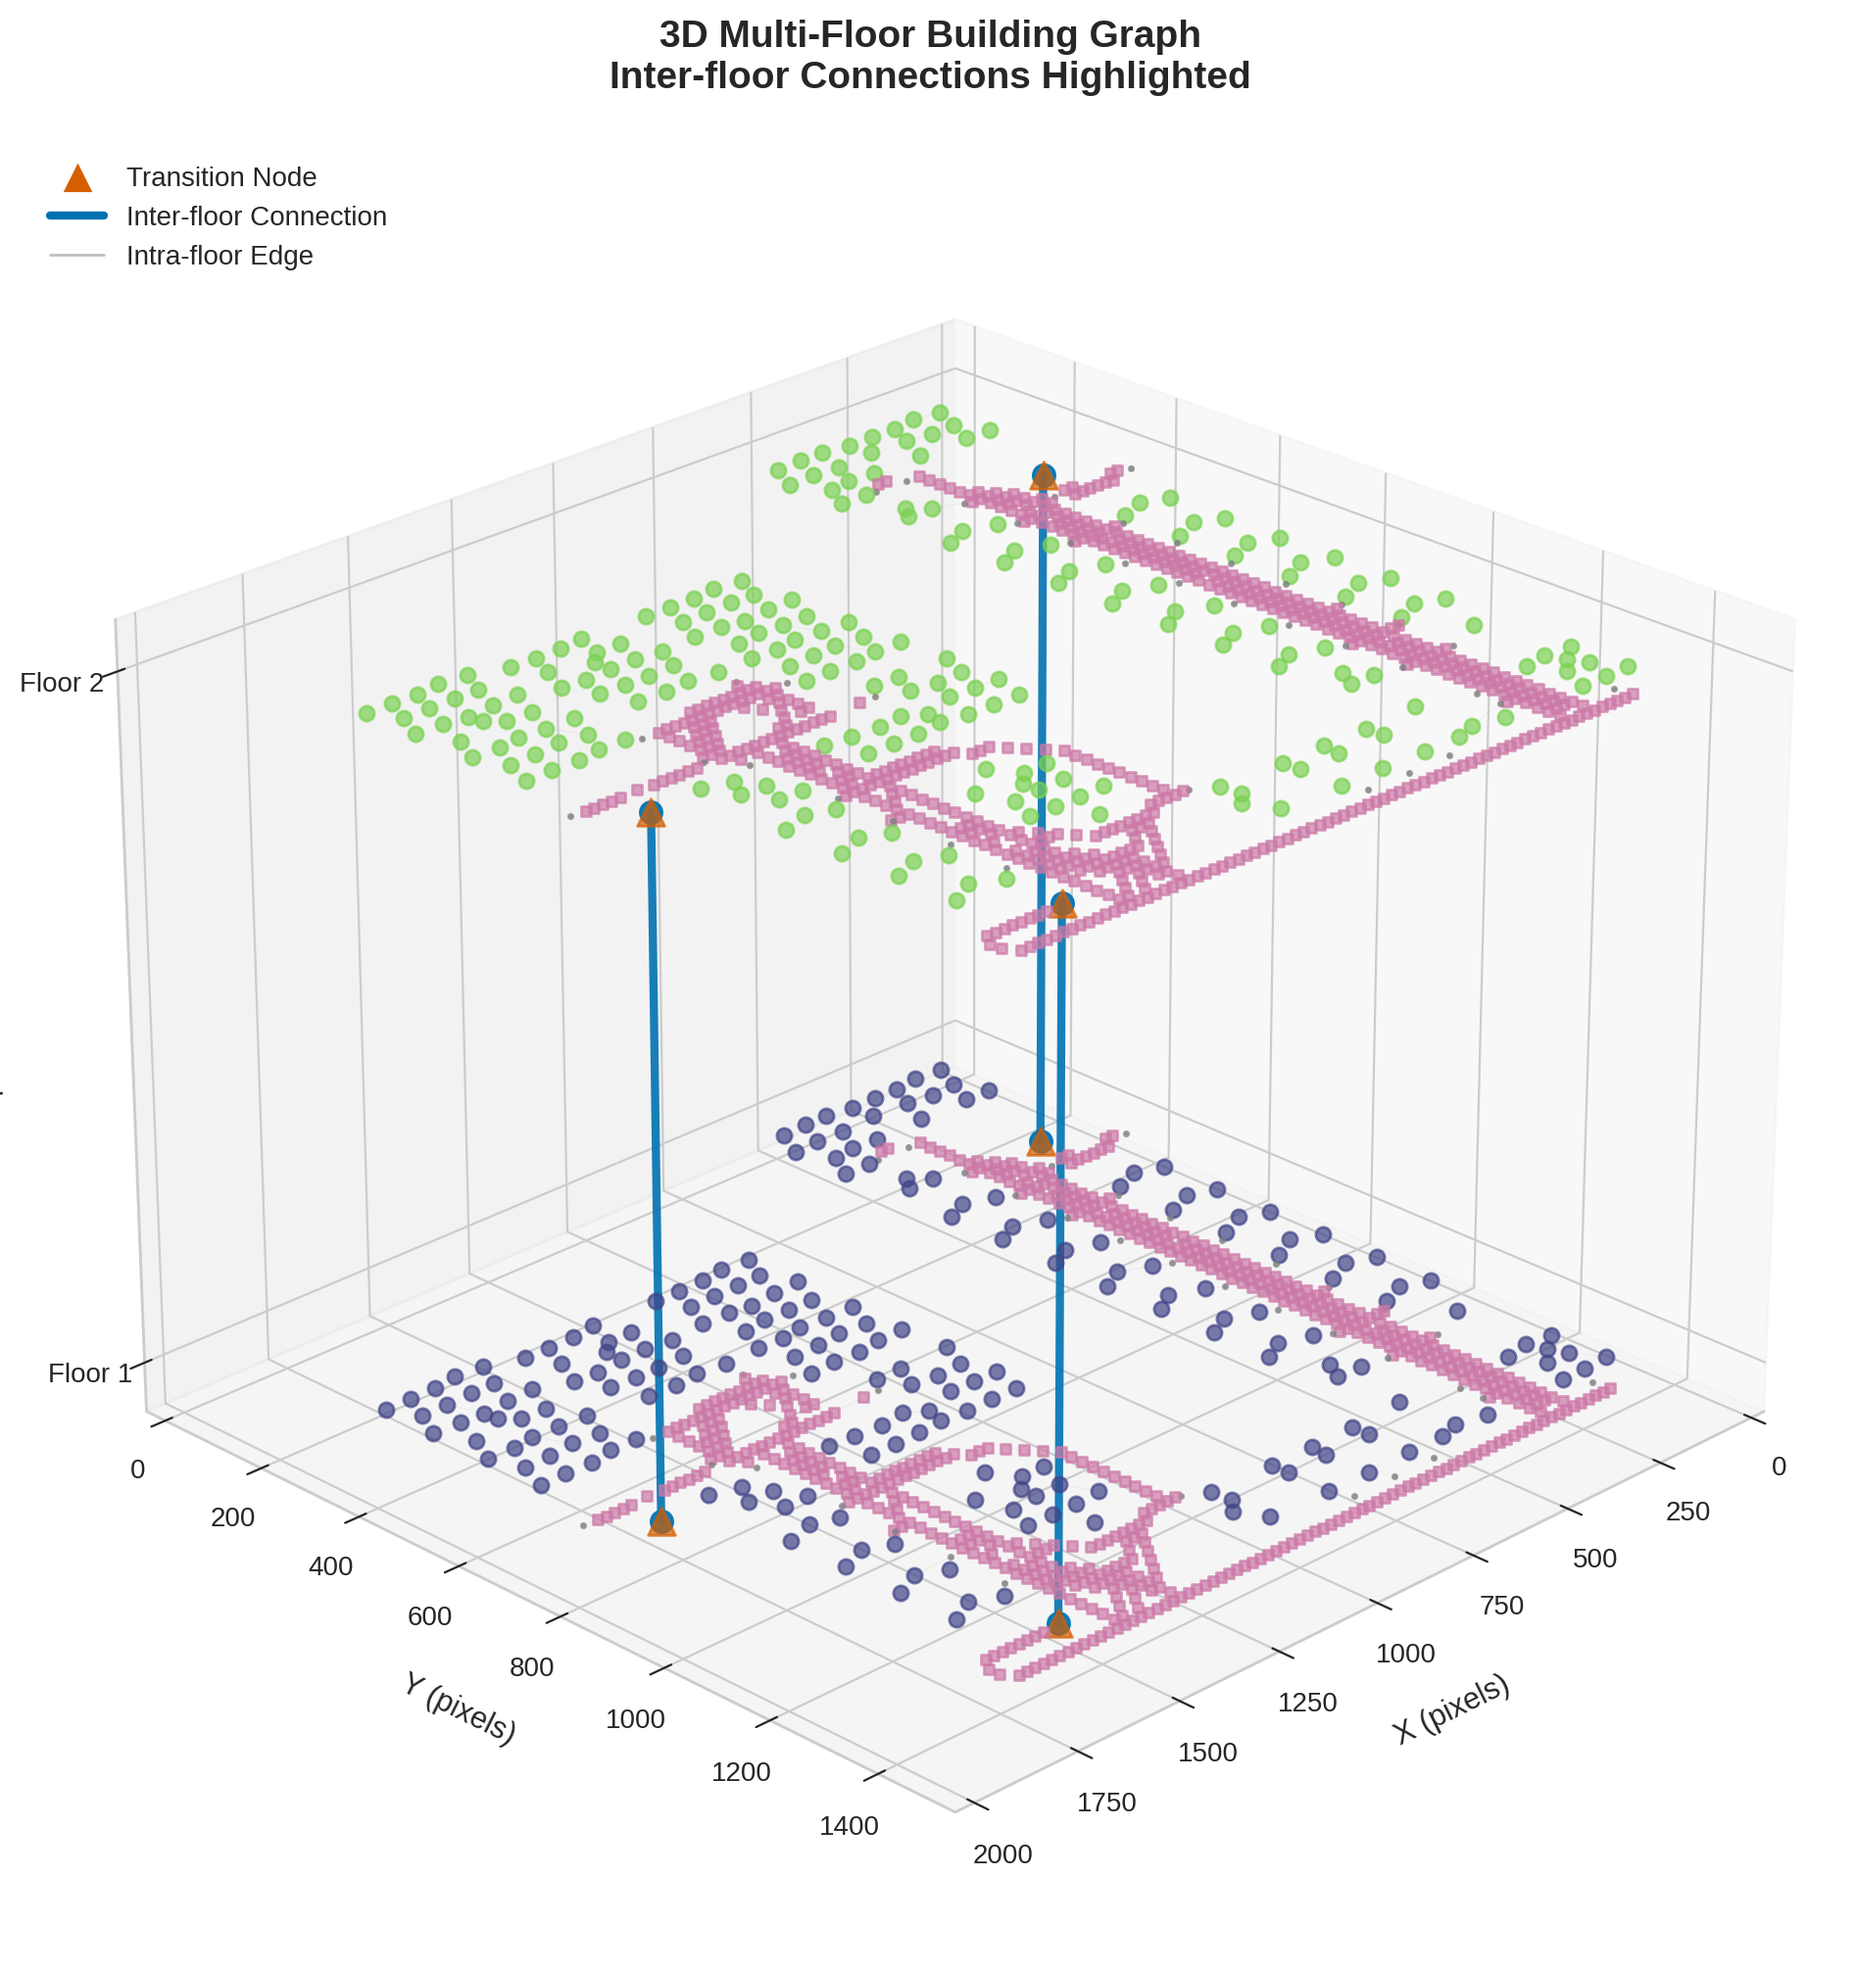
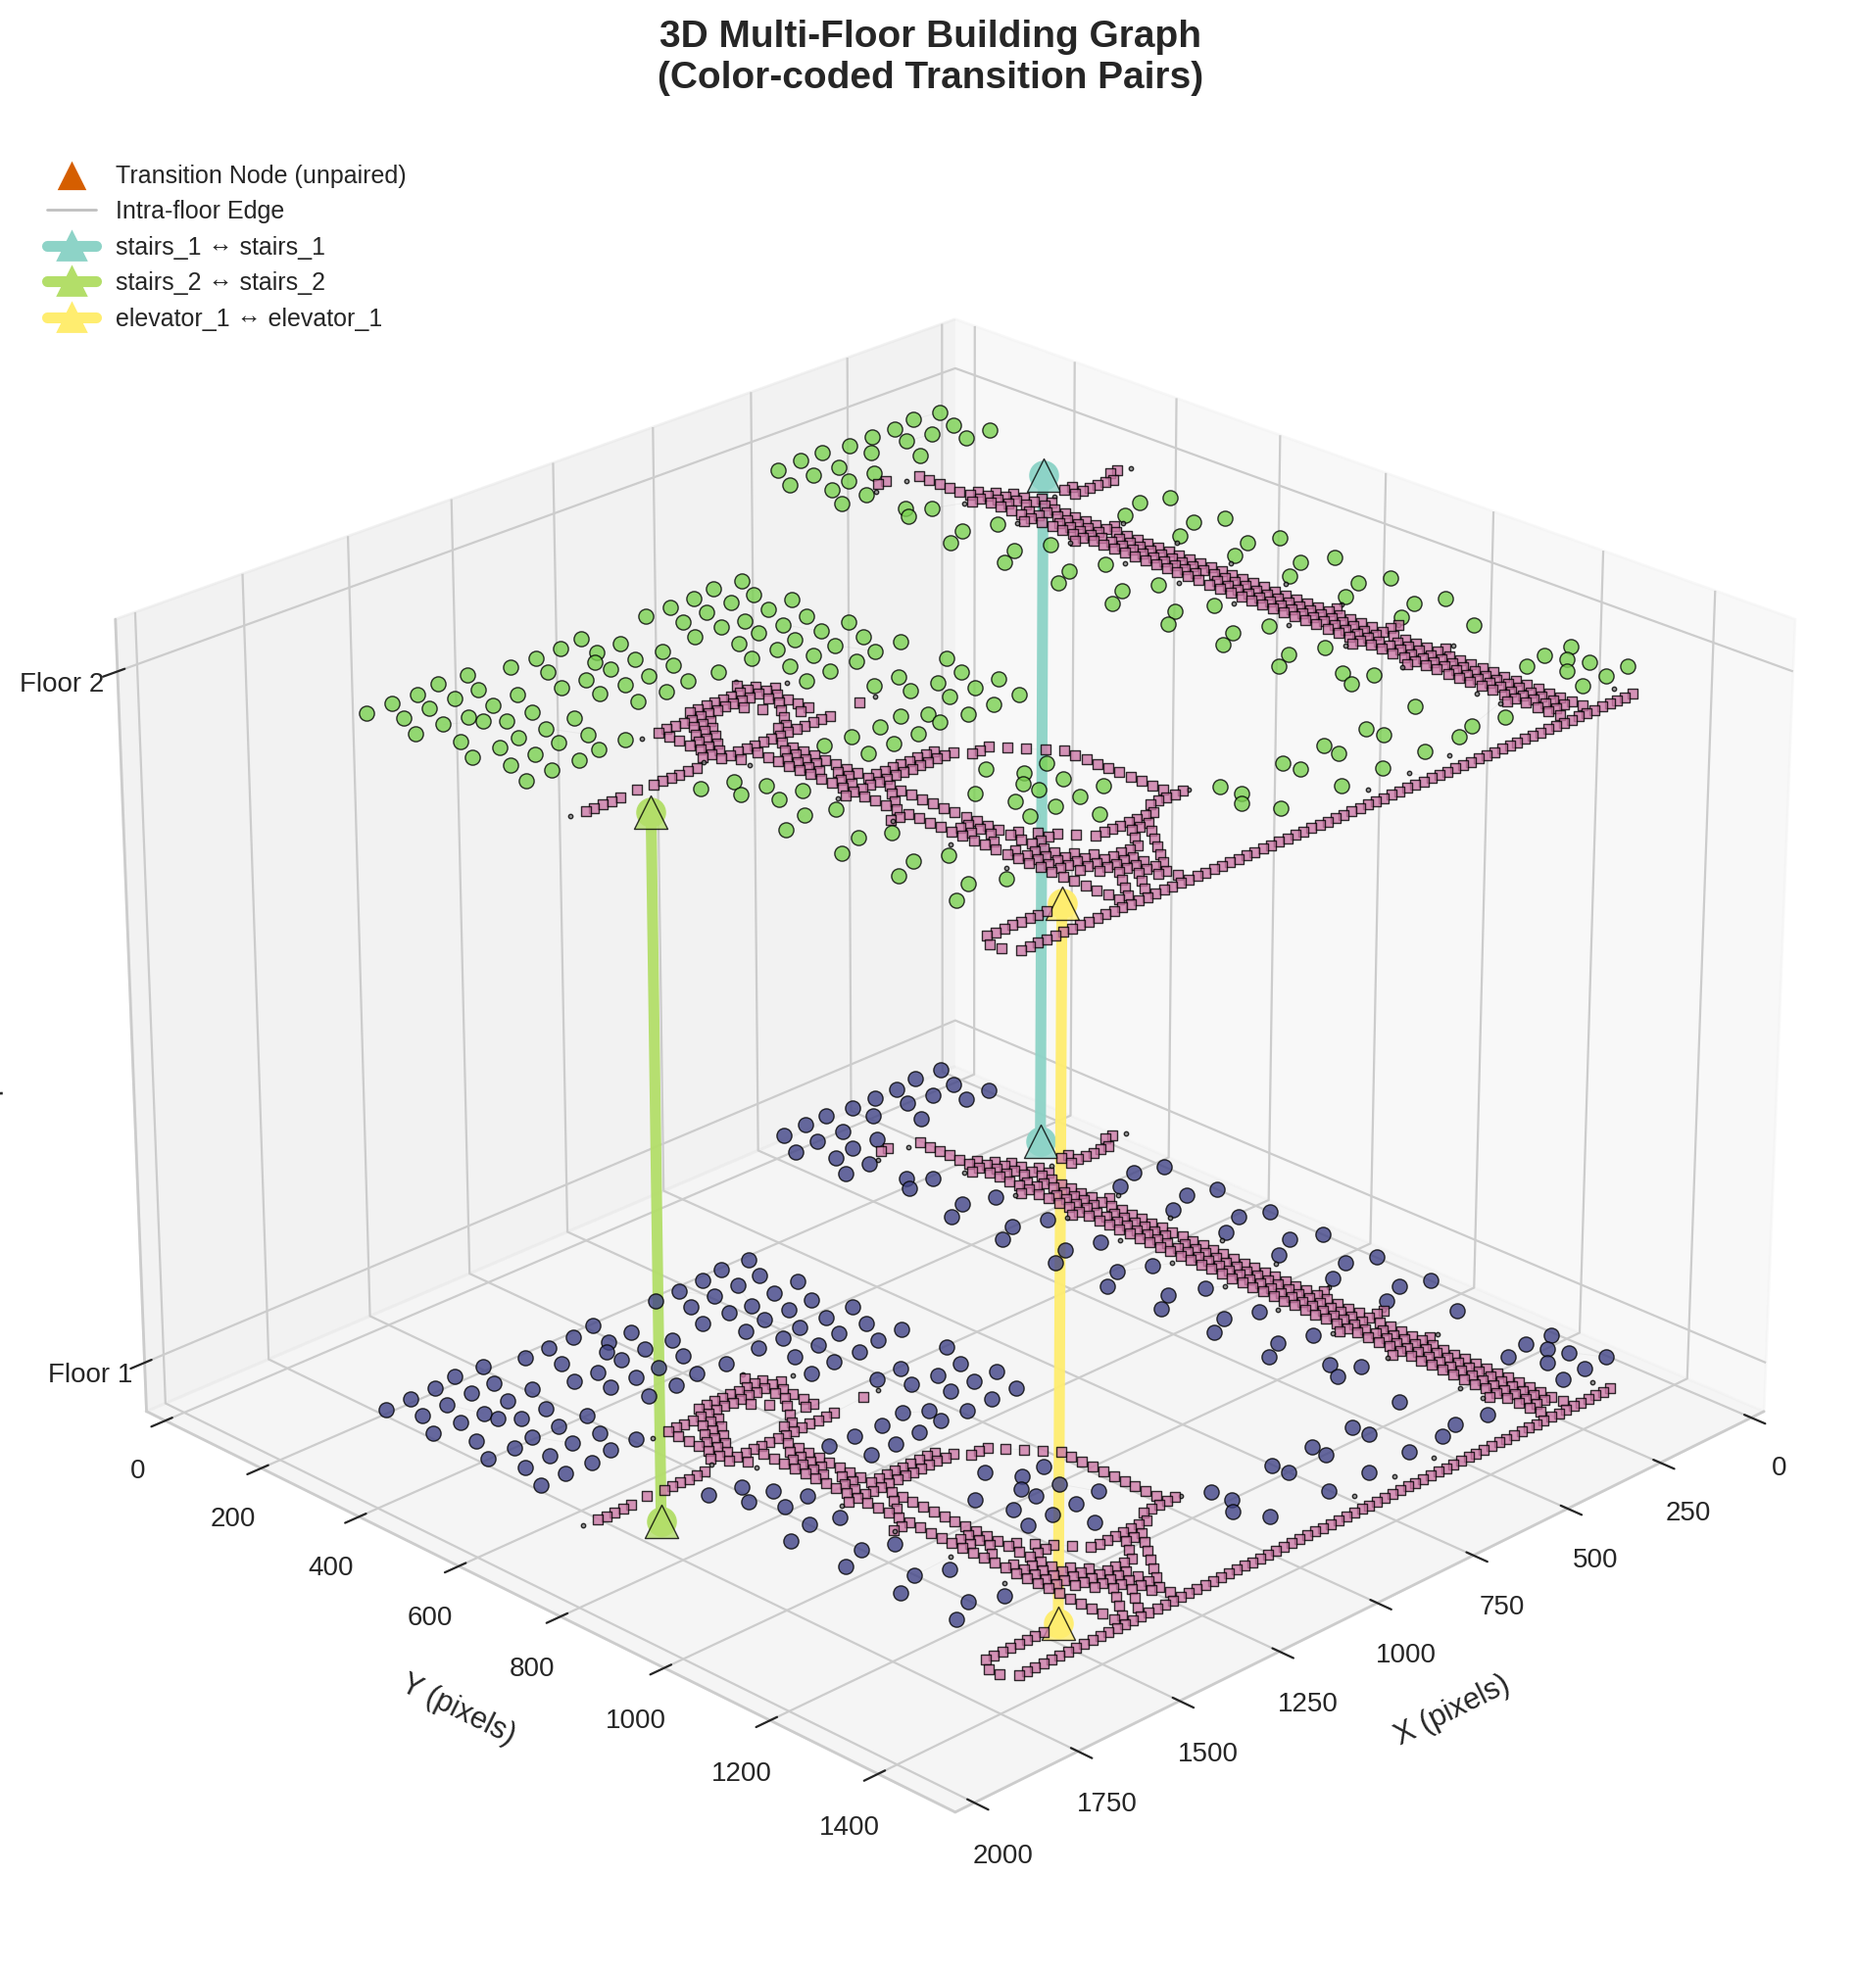
feat: Add color-coded transition pairs to visualizations
Beautification improvements:
1. stacked_floors.png:
   - Each transition pair (stairs_1 ↔ stairs_1) gets unique color
   - Star markers on both floors use same color for matching pairs
   - Legend shows each pair with its color
   - Example: stairs_1 pair = one color, stairs_2 pair = different color

2. 3d_building.png:
   - Transition nodes (triangles) colored by pair
   - Inter-floor connection edges colored by pair
   - Both source and target nodes use same color
   - Legend shows each pair with its unique color

Technical:
- Uses matplotlib.cm.Set3 palette for distinct colors
- Maps (src_node, tgt_node) tuple to unique color
- Both visualization functions updated consistently
- Colors persist across both floors for easy identification

diff --git a/MultiFloor.py b/MultiFloor.py
@@ -37,6 +37,7 @@ from collections import defaultdict
 import numpy as np
 import cv2
 import matplotlib.pyplot as plt
+import matplotlib.colors as mcolors
 import matplotlib.patches as mpatches
 from matplotlib.lines import Line2D
 from mpl_toolkits.mplot3d import Axes3D
@@ -965,9 +966,21 @@ def plot_stacked_floors(merged_graph, floor_graphs, floor_image_map, connection_
                        input_images_dir, output_path):
     """
     Create a stacked floor visualization showing all floors vertically aligned.
+    Each transition pair gets a unique color for easy identification.
     """
     floors = sorted(set(floor_image_map.values()))
     n_floors = len(floors)
+    
+    # Assign unique colors to each transition pair
+    n_pairs = len(connection_details)
+    # Use a vibrant color palette (Set3 for distinct colors)
+    pair_colors = plt.cm.Set3(np.linspace(0, 1, max(n_pairs, 1)))
+    # Convert to hex for consistency
+    pair_color_map = {}
+    for i, conn in enumerate(connection_details):
+        # Create a unique key for this pair
+        pair_key = (conn['src'], conn['tgt'])
+        pair_color_map[pair_key] = mcolors.rgb2hex(pair_colors[i])
     
     # Load floor images
     floor_images = {}
@@ -1024,20 +1037,28 @@ def plot_stacked_floors(merged_graph, floor_graphs, floor_image_map, connection_
                     ax.plot([pos_u[0], pos_v[0]], [pos_u[1], pos_v[1]], 
                            color='gray', alpha=0.3, linewidth=0.5)
         
-        # Highlight transition nodes
+        # Highlight transition nodes with unique colors per pair
         for conn in connection_details:
             if conn['src_floor'] == floor_num or conn['tgt_floor'] == floor_num:
                 pos = conn['src_pos'] if conn['src_floor'] == floor_num else conn['tgt_pos']
+                pair_key = (conn['src'], conn['tgt'])
+                pair_color = pair_color_map.get(pair_key, ACADEMIC_COLORS['inter_floor'])
+                
                 if pos:
-                    ax.scatter(pos[0], pos[1], c=ACADEMIC_COLORS['inter_floor'], 
+                    # Extract node name for label
+                    node_name = conn['src'] if conn['src_floor'] == floor_num else conn['tgt']
+                    # Remove floor prefix for cleaner label
+                    node_label = node_name.split('_', 1)[1] if '_' in node_name else node_name
+                    
+                    ax.scatter(pos[0], pos[1], c=pair_color, 
                               s=300, marker='*', edgecolors='black', linewidths=1.5,
-                              zorder=10, label='Inter-floor Connection' if idx == 0 else '')
+                              zorder=10)
         
         floor_name = get_floor_display_name(floor_num)
         ax.set_title(f'Floor {floor_num} ({floor_name})', fontsize=14, fontweight='bold')
         ax.axis('off')
     
-    # Add legend to first subplot
+    # Add legend to first subplot with transition pair colors
     legend_elements = [
         Line2D([0], [0], marker='o', color='w', markerfacecolor=ACADEMIC_COLORS['room'], 
                markersize=10, label='Room'),
@@ -1045,12 +1066,24 @@ def plot_stacked_floors(merged_graph, floor_graphs, floor_image_map, connection_
                markersize=10, label='Corridor'),
         Line2D([0], [0], marker='^', color='w', markerfacecolor=ACADEMIC_COLORS['transition'], 
                markersize=12, label='Transition (Stairs/Elevator)'),
-        Line2D([0], [0], marker='*', color='w', markerfacecolor=ACADEMIC_COLORS['inter_floor'], 
-               markersize=15, label='Inter-floor Connection'),
     ]
-    axes[0].legend(handles=legend_elements, loc='upper right', fontsize=10, framealpha=0.9)
     
-    plt.suptitle('Multi-Floor Building Graph - Stacked View', fontsize=16, fontweight='bold', y=1.02)
+    # Add legend entries for each transition pair
+    for i, conn in enumerate(connection_details):
+        pair_key = (conn['src'], conn['tgt'])
+        pair_color = pair_color_map.get(pair_key, ACADEMIC_COLORS['inter_floor'])
+        src_name = conn['src'].split('_', 1)[1] if '_' in conn['src'] else conn['src']
+        tgt_name = conn['tgt'].split('_', 1)[1] if '_' in conn['tgt'] else conn['tgt']
+        label = f'{src_name} ↔ {tgt_name}'
+        legend_elements.append(
+            Line2D([0], [0], marker='*', color='w', markerfacecolor=pair_color, 
+                   markersize=15, label=label)
+        )
+    
+    axes[0].legend(handles=legend_elements, loc='upper right', fontsize=9, framealpha=0.9)
+    
+    plt.suptitle('Multi-Floor Building Graph - Stacked View\n(Color-coded Transition Pairs)', 
+                 fontsize=16, fontweight='bold', y=1.02)
     plt.tight_layout()
     plt.savefig(output_path, dpi=200, bbox_inches='tight', facecolor='white')
     plt.close()
@@ -1061,12 +1094,28 @@ def plot_stacked_floors(merged_graph, floor_graphs, floor_image_map, connection_
 def plot_3d_building(merged_graph, floor_image_map, connection_details, output_path):
     """
     Create a 3D visualization of the multi-floor building.
+    Each transition pair gets a unique color for both markers and edges.
     """
     fig = plt.figure(figsize=(14, 12))
     ax = fig.add_subplot(111, projection='3d')
     
     floors = sorted(set(floor_image_map.values()))
     floor_height = 100  # Vertical spacing between floors
+    
+    # Assign unique colors to each transition pair
+    n_pairs = len(connection_details)
+    # Use a vibrant color palette (Set3 for distinct colors)
+    pair_colors = plt.cm.Set3(np.linspace(0, 1, max(n_pairs, 1)))
+    pair_color_map = {}
+    transition_node_colors = {}  # Map node_id to pair color
+    
+    for i, conn in enumerate(connection_details):
+        pair_key = (conn['src'], conn['tgt'])
+        pair_color = mcolors.rgb2hex(pair_colors[i])
+        pair_color_map[pair_key] = pair_color
+        # Map both source and target nodes to this color
+        transition_node_colors[conn['src']] = pair_color
+        transition_node_colors[conn['tgt']] = pair_color
     
     # Color map for floors
     floor_colors = plt.cm.viridis(np.linspace(0.2, 0.8, len(floors)))
@@ -1090,9 +1139,10 @@ def plot_3d_building(merged_graph, floor_image_map, connection_details, output_p
             
             # Size and marker based on type
             if node_type == 'transition':
-                size = 100
+                size = 150  # Larger for visibility
                 marker = '^'
-                color = ACADEMIC_COLORS['transition']
+                # Use pair-specific color if available
+                color = transition_node_colors.get(node_id, ACADEMIC_COLORS['transition'])
             elif node_type == 'room':
                 size = 30
                 marker = 'o'
@@ -1106,7 +1156,8 @@ def plot_3d_building(merged_graph, floor_image_map, connection_details, output_p
                 marker = '.'
                 color = 'gray'
             
-            ax.scatter(x, y, z, c=[color], s=size, marker=marker, alpha=0.7)
+            ax.scatter(x, y, z, c=[color], s=size, marker=marker, alpha=0.8, 
+                      edgecolors='black', linewidths=0.5)
     
     # Plot intra-floor edges (sample to avoid clutter)
     edge_sample_rate = 0.1  # Plot 10% of edges
@@ -1129,7 +1180,7 @@ def plot_3d_building(merged_graph, floor_image_map, connection_details, output_p
             ax.plot([pos_u[0], pos_v[0]], [pos_u[1], pos_v[1]], [z, z],
                    color='gray', alpha=0.1, linewidth=0.3)
     
-    # Plot inter-floor connections (highlighted)
+    # Plot inter-floor connections with unique colors per pair
     for conn in connection_details:
         src_pos = conn['src_pos']
         tgt_pos = conn['tgt_pos']
@@ -1140,10 +1191,14 @@ def plot_3d_building(merged_graph, floor_image_map, connection_details, output_p
             z_src = src_floor * floor_height
             z_tgt = tgt_floor * floor_height
             
-            # Draw vertical connection line
+            # Get unique color for this pair
+            pair_key = (conn['src'], conn['tgt'])
+            pair_color = pair_color_map.get(pair_key, ACADEMIC_COLORS['inter_floor'])
+            
+            # Draw vertical connection line with pair-specific color
             ax.plot([src_pos[0], tgt_pos[0]], [src_pos[1], tgt_pos[1]], [z_src, z_tgt],
-                   color=ACADEMIC_COLORS['inter_floor'], linewidth=3, alpha=0.9,
-                   linestyle='-', marker='o', markersize=8)
+                   color=pair_color, linewidth=4, alpha=0.95,
+                   linestyle='-', marker='o', markersize=10)
     
     # Labels and styling
     ax.set_xlabel('X (pixels)', fontsize=11, labelpad=10)
@@ -1155,18 +1210,29 @@ def plot_3d_building(merged_graph, floor_image_map, connection_details, output_p
     ax.set_zticks(z_ticks)
     ax.set_zticklabels([f'Floor {f}' for f in floors])
     
-    ax.set_title('3D Multi-Floor Building Graph\nInter-floor Connections Highlighted', 
+    ax.set_title('3D Multi-Floor Building Graph\n(Color-coded Transition Pairs)', 
                 fontsize=14, fontweight='bold', pad=20)
     
-    # Legend
+    # Legend with transition pair colors
     legend_elements = [
         Line2D([0], [0], marker='^', color='w', markerfacecolor=ACADEMIC_COLORS['transition'], 
-               markersize=12, label='Transition Node'),
-        Line2D([0], [0], color=ACADEMIC_COLORS['inter_floor'], linewidth=3, 
-               label='Inter-floor Connection'),
+               markersize=12, label='Transition Node (unpaired)'),
         Line2D([0], [0], color='gray', linewidth=1, alpha=0.5, label='Intra-floor Edge'),
     ]
-    ax.legend(handles=legend_elements, loc='upper left', fontsize=10)
+    
+    # Add legend entries for each transition pair
+    for i, conn in enumerate(connection_details):
+        pair_key = (conn['src'], conn['tgt'])
+        pair_color = pair_color_map.get(pair_key, ACADEMIC_COLORS['inter_floor'])
+        src_name = conn['src'].split('_', 1)[1] if '_' in conn['src'] else conn['src']
+        tgt_name = conn['tgt'].split('_', 1)[1] if '_' in conn['tgt'] else conn['tgt']
+        label = f'{src_name} ↔ {tgt_name}'
+        legend_elements.append(
+            Line2D([0], [0], color=pair_color, linewidth=4, marker='^', 
+                   markerfacecolor=pair_color, markersize=10, label=label)
+        )
+    
+    ax.legend(handles=legend_elements, loc='upper left', fontsize=9, framealpha=0.9)
     
     # Adjust view angle
     ax.view_init(elev=25, azim=45)
